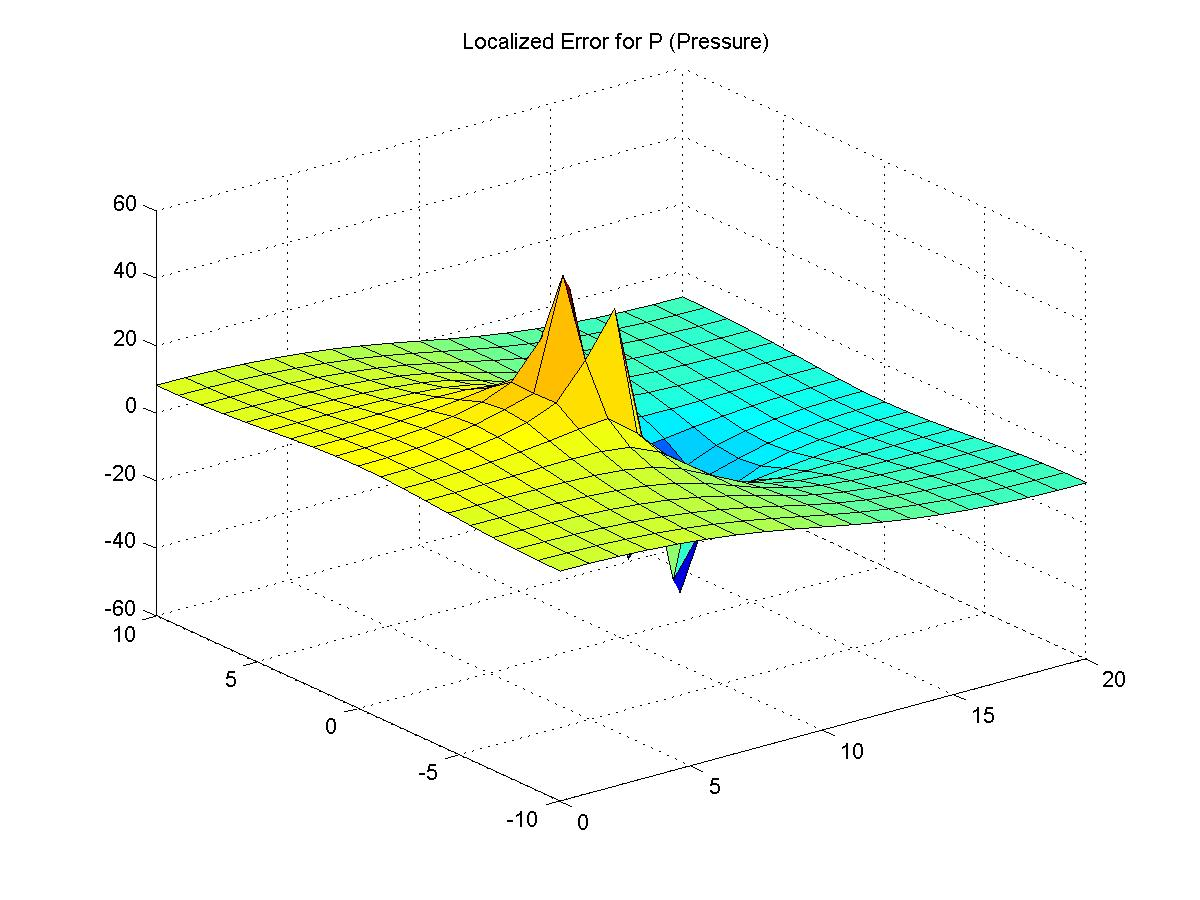
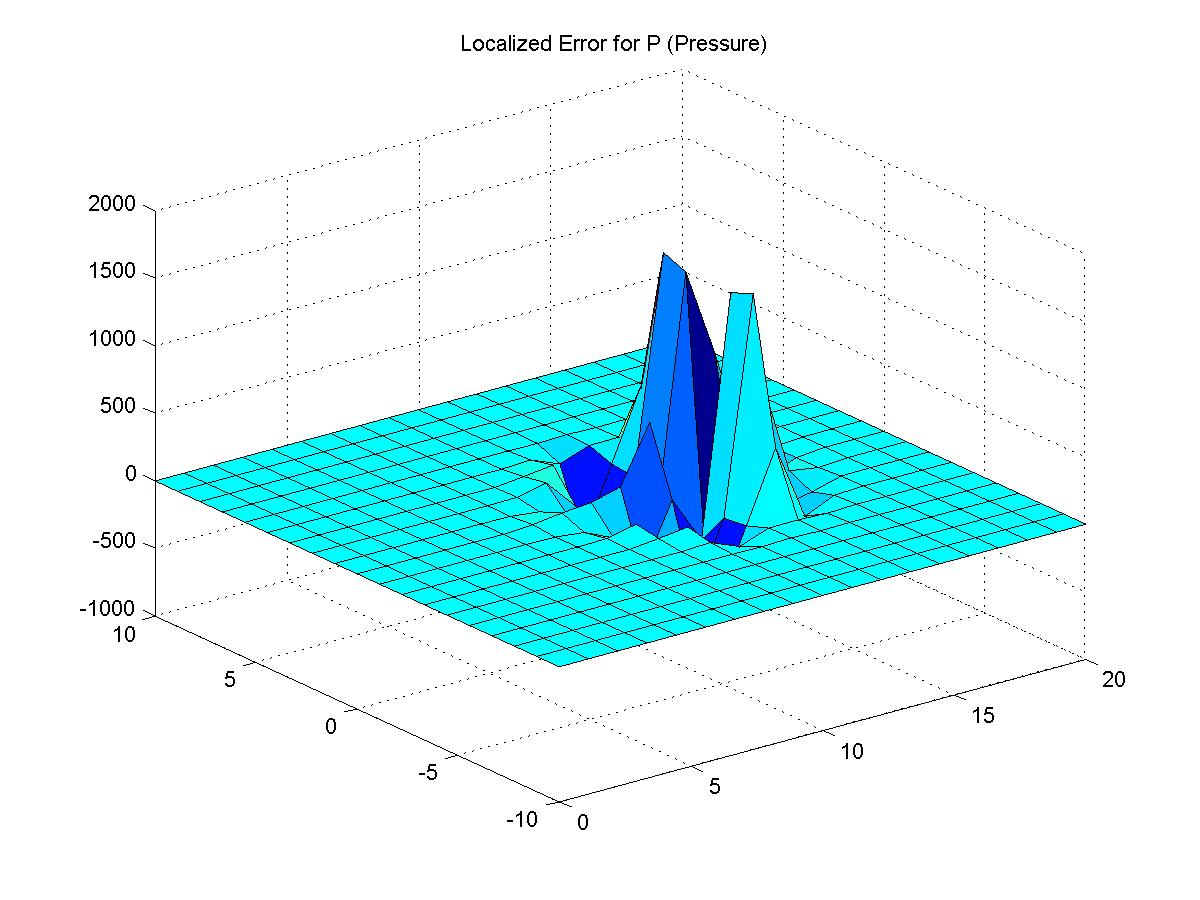
Changed to simple dirichlet BC's for u.  Still has funky behavior.

diff --git a/Stokes2DPC.m b/Stokes2DPC.m
@@ -42,7 +42,7 @@ for t = 1:numTimeSteps  %This loop will surround the entire algoritm
     if(t == 1)
         for i=1:numXCells
             for j=1:numYCells
-                u(ind(i,j), t) = 1;
+                u(ind(i,j), t) = 0;
             end
         end
     end  
@@ -67,11 +67,11 @@ for t = 1:numTimeSteps  %This loop will surround the entire algoritm
     %Right edge, excluding corners, use backward difference for uxx and vxx
     for j = 1:numYCells
         i = 1;
-        u_star(ind(i,j),t) = 1;
+        u_star(ind(i,j),t) = 0;
         v_star(ind(i,j),t) = 0;
         
         i = numXCells;
-        u_star(ind(i,j), t) = 1;
+        u_star(ind(i,j), t) = 0;
         v_star(ind(i,j), t) = 0;
     end
     
@@ -80,11 +80,13 @@ for t = 1:numTimeSteps  %This loop will surround the entire algoritm
     for i = 2:numXCells-1
         j = 1;
         %Want uy = 0
-        u_star(ind(i,j),t) = u_star(ind(i,j+1),t);
+        %u_star(ind(i,j),t) = u_star(ind(i,j+1),t);
+        u_star(ind(i,j),t) = 0;
         v_star(ind(i,j),t) = 0;
         
         j = numYCells;
-        u_star(ind(i,j),t) = u_star(ind(i,j-1),t);
+        %u_star(ind(i,j),t) = u_star(ind(i,j-1),t);
+        u_star(ind(i,j),t) = 0;
         v_star(ind(i,j),t) = 0;
     end
     

diff --git a/force.m b/force.m
@@ -21,6 +21,7 @@ id1 = (z > -E) & (z < E);
 
 delta = zeros(size(x));
 delta (id1) = (1 + cos((pi * z(id1) / E))) / (2 * E);
+%2E in denominator?
 
 f1 = delta .* cos(theta);
 f2 = delta .* sin(theta);

diff --git a/Main.m b/Main.m
@@ -2,8 +2,8 @@ clear all;
 close all;
 clc;
 
-animate = 1;
-checkL2E = 0;
+animate = 0;
+checkL2E = 1;
 
 %Pressure Differential (Right side)
 p0 = 0;
